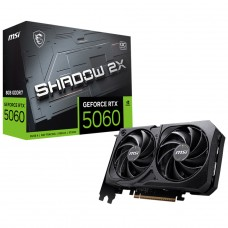
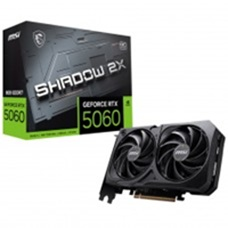
Card Responsivo

diff --git a/card.html b/card.html
@@ -17,74 +17,100 @@
                     <p>Placa de Vídeo MSI NVidia GeForce RTX 5060 Shadow 2X OC, 8GB, GDDR7, DLSS, Ray Tracing</p>
                 </div>
                 <div class="card-preco">
-                    <p class="preco-de"><span>De: 4.000,00</span> por:</p>
+                    <p class="preco-de"><span>De: R$ 4.000,00</span> por:</p>
                     <p class="preco-por">R$ 2.200,00 <small>à vista</small></p>
                     <p class="preco-juros">12X <small>de</small> R$ 220,00 <small>sem juros</small></p>
                 </div>
             </div>
             <div class="card card2">
                 <div class="card-img">
-                    <img src="img/ex1.jpg" alt="">                    
+                    <img src="img/ex2.png" alt="">                    
                 </div>
                 <div class="card-desc">
-                    <p>Placa de Vídeo MSI NVidia GeForce RTX 5060 Shadow 2X OC, 8GB, GDDR7, DLSS, Ray Tracing</p>
+                    <p>Placa De Vídeo Gigabyte AMD Radeon RX 7600 Gaming OC, 8GB, GDDR6, FSR, Ray Tracing</p>
                 </div>
                 <div class="card-preco">
-                    <p class="preco-de"><span>De: 4.000,00</span> por:</p>
-                    <p class="preco-por">R$ 2.200,00 <small>à vista</small></p>
-                    <p class="preco-juros">12X <small>de</small> R$ 220,00 <small>sem juros</small></p>
+                    <p class="preco-de"><span>De: R$ 3.299,00</span> por:</p>
+                    <p class="preco-por">R$ 1.629,99 <small>à vista</small></p>
+                    <p class="preco-juros">12X <small>de</small> R$ 159,80 <small>sem juros</small></p>
                 </div>
             </div>
             <div class="card card3">
                 <div class="card-img">
-                    <img src="img/ex1.jpg" alt="">                    
+                    <img src="img/ex3.png" alt="">                    
                 </div>
                 <div class="card-desc">
-                    <p>Placa de Vídeo MSI NVidia GeForce RTX 5060 Shadow 2X OC, 8GB, GDDR7, DLSS, Ray Tracing</p>
+                    <p>Processador AMD Ryzen 5 5500 3.6GHz (4.2GHz Turbo), 6-Cores 12-Threads, AM4</p>
                 </div>
                 <div class="card-preco">
-                    <p class="preco-de"><span>De: 4.000,00</span> por:</p>
-                    <p class="preco-por">R$ 2.200,00 <small>à vista</small></p>
-                    <p class="preco-juros">12X <small>de</small> R$ 220,00 <small>sem juros</small></p>
+                    <p class="preco-de"><span>De: R$ 1.399,90</span> por:</p>
+                    <p class="preco-por">R$ 559,99 <small>à vista</small></p>
+                    <p class="preco-juros">12X <small>de</small> R$ 54,90 <small>sem juros</small></p>
                 </div>
             </div>
             <div class="card card4">
                 <div class="card-img">
-                    <img src="img/ex1.jpg" alt="">                    
+                    <img src="img/ex4.png" alt="">                    
                 </div>
                 <div class="card-desc">
-                    <p>Placa de Vídeo MSI NVidia GeForce RTX 5060 Shadow 2X OC, 8GB, GDDR7, DLSS, Ray Tracing</p>
+                    <p>Placa Mãe Asus TUF Gaming B550M-Plus, Chipset B550, AMD AM4, mATX, DDR4</p>
                 </div>
                 <div class="card-preco">
-                    <p class="preco-de"><span>De: 4.000,00</span> por:</p>
-                    <p class="preco-por">R$ 2.200,00 <small>à vista</small></p>
-                    <p class="preco-juros">12X <small>de</small> R$ 220,00 <small>sem juros</small></p>
+                    <p class="preco-de"><span>De: R$ 1.349,90</span> por:</p>
+                    <p class="preco-por">R$ 739,99 <small>à vista</small></p>
+                    <p class="preco-juros">12X <small>de</small> R$ 72,55 <small>sem juros</small></p>
                 </div>
             </div>
             <div class="card card5">
                 <div class="card-img">
-                    <img src="img/ex1.jpg" alt="">                    
+                    <img src="img/ex5.png" alt="">                    
                 </div>
                 <div class="card-desc">
-                    <p>Placa de Vídeo MSI NVidia GeForce RTX 5060 Shadow 2X OC, 8GB, GDDR7, DLSS, Ray Tracing</p>
+                    <p>Fonte SuperFrame Leadex III Powered By Super Flower, 850W, 80 Plus Gold</p>
                 </div>
                 <div class="card-preco">
-                    <p class="preco-de"><span>De: 4.000,00</span> por:</p>
-                    <p class="preco-por">R$ 2.200,00 <small>à vista</small></p>
-                    <p class="preco-juros">12X <small>de</small> R$ 220,00 <small>sem juros</small></p>
+                    <p class="preco-de"><span>De: R$ 899,99</span> por:</p>
+                    <p class="preco-por">R$ 599,99 <small>à vista</small></p>
+                    <p class="preco-juros">12X <small>de</small> R$ 58,82 <small>sem juros</small></p>
                 </div>
             </div>
             <div class="card card6">
                 <div class="card-img">
-                    <img src="img/ex1.jpg" alt="">                    
+                    <img src="img/ex6.png" alt="">                    
                 </div>
                 <div class="card-desc">
-                    <p>Placa de Vídeo MSI NVidia GeForce RTX 5060 Shadow 2X OC, 8GB, GDDR7, DLSS, Ray Tracing</p>
+                    <p>Processador Intel Core i9 14900F, 3.6 GHz (5.8GHz Turbo), 14ª Geração, 24-Cores 32-Threads</p>
                 </div>
                 <div class="card-preco">
-                    <p class="preco-de"><span>De: 4.000,00</span> por:</p>
-                    <p class="preco-por">R$ 2.200,00 <small>à vista</small></p>
-                    <p class="preco-juros">12X <small>de</small> R$ 220,00 <small>sem juros</small></p>
+                    <p class="preco-de"><span>De: R$ 7.299,99</span> por:</p>
+                    <p class="preco-por">R$ 2.799,99 <small>à vista</small></p>
+                    <p class="preco-juros">12X <small>de</small> R$ 274,51 <small>sem juros</small></p>
+                </div>
+            </div>
+            <div class="card card7">
+                <div class="card-img">
+                    <img src="img/ex6.png" alt="">                    
+                </div>
+                <div class="card-desc">
+                    <p>Processador Intel Core i9 14900F, 3.6 GHz (5.8GHz Turbo), 14ª Geração, 24-Cores 32-Threads</p>
+                </div>
+                <div class="card-preco">
+                    <p class="preco-de"><span>De: R$ 7.299,99</span> por:</p>
+                    <p class="preco-por">R$ 2.799,99 <small>à vista</small></p>
+                    <p class="preco-juros">12X <small>de</small> R$ 274,51 <small>sem juros</small></p>
+                </div>
+            </div>
+            <div class="card card8">
+                <div class="card-img">
+                    <img src="img/ex6.png" alt="">                    
+                </div>
+                <div class="card-desc">
+                    <p>Processador Intel Core i9 14900F, 3.6 GHz (5.8GHz Turbo), 14ª Geração, 24-Cores 32-Threads</p>
+                </div>
+                <div class="card-preco">
+                    <p class="preco-de"><span>De: R$ 7.299,99</span> por:</p>
+                    <p class="preco-por">R$ 2.799,99 <small>à vista</small></p>
+                    <p class="preco-juros">12X <small>de</small> R$ 274,51 <small>sem juros</small></p>
                 </div>
             </div>
         </section>

diff --git a/css/style.css b/css/style.css
@@ -235,11 +235,13 @@ footer div{
 /* .main{padding: 0 10%;} */
 /* C A R D S */
 
-.sct-cards{
-    margin-top: 10em;
+.sct-cards{ 
     display: flex;
     justify-content: space-around;
     flex-wrap: wrap;
+    width: 90%;
+    margin: auto;
+    margin-top: 10em;
 }
 
 .card{
@@ -250,11 +252,16 @@ footer div{
     font-family: Poppins;
     display: flex;
     flex-direction: column;
-    width: 12%;
+    width: 15%;
     padding: .5em;
     text-align: justify;
     box-shadow: 0px 0px .5em #888;
     margin-bottom: 3em;
+    justify-content: space-between;
+}
+
+.card7, .card8{
+    display: none;
 }
 
 .card-img, .card-desc, .card-preco, .card p, .card img{
@@ -275,10 +282,6 @@ footer div{
     font-size: .7em;
 }
 
-.card-desc p{
-    flex-shrink: 2;
-}
-
 .card-preco{
     display: flex;
     flex-direction: column;
@@ -295,7 +298,7 @@ p span{
 
 .preco-por{
     color: #1088eb;
-    font-size: .8em;
+    font-size: .7em;
 
 }
 .preco-juros{
@@ -304,15 +307,18 @@ p span{
 
 }
 
-@media screen and (min-width: 1025px){
+@media screen and (max-width: 1400px){
     .card-desc p, .preco-por{
-        font-size: .8em;
+        font-size: .7em;
     }
     .preco-de, .preco-juros{
-        font-size: .5em;
+        font-size: .35em;
     }
     .card{
-        max-height: 16em;
+        width: 22%;
+    }
+    .card7, .card8{
+        display: flex;
     }
 }
 
@@ -323,32 +329,38 @@ p span{
     .preco-de, .preco-juros{
         font-size: .4em;
     }
-    .card{
-        width: 24%;
+    .card7, .card8{
+        display: none;
     }
+    .card{
+        width: 30%;
+    }
+    
+    
 }
 
 @media screen and (max-width: 640px){
-    .card-desc p, .preco-por{
-        font-size: .7em;
-    }
-    .preco-de, .preco-juros{
-        font-size: .4em;
-    }
     .card{
-        width: 34%;
+        width: 45%;
     }
 }
 
 @media screen and (max-width: 468px){
+    .sct-cards{
+        width: 100%;
+    }
+    .card-img img{
+        width: 50%;
+    }
     .card-desc p, .preco-por{
-        font-size: .7em;
+        font-size: 1em;
+        flex-shrink: 2;
     }
     .preco-de, .preco-juros{
-        font-size: .5em;
+        font-size: .7em;
     }
     .card{
-        width: 70%;
+        width: 90%;
     }
 }
 